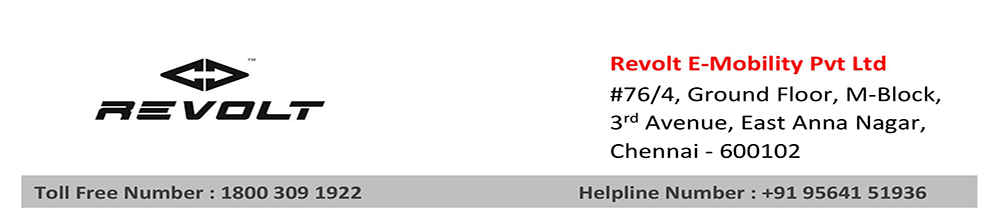
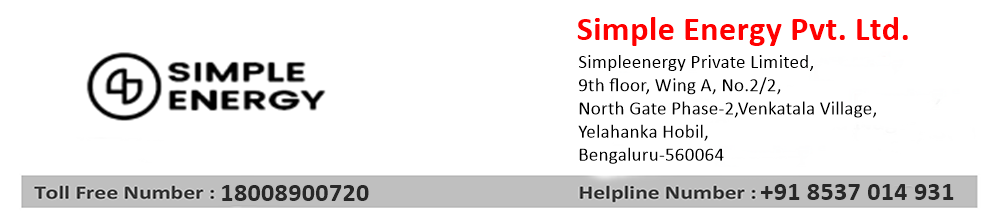
image fix

diff --git a/resources/views/admin/approval-letter/viewLetter.blade.php b/resources/views/admin/approval-letter/viewLetter.blade.php
@@ -259,7 +259,7 @@
                             <p class=MsoNormal align=right style='margin-bottom:0in;
                             text-align:right;
                             line-height:normal'><span lang=EN-IN><img width=167 height=45 id="Picture 9"
-                                                 src="{{ url('assets/letter')}}/barcode (2).gif"></span></p>
+                                                 src="{{ url('assets/letter')}}/qrcode.jpg"></span></p>
                         </td>
                     </tr>
                 </table>
@@ -290,9 +290,9 @@
                         color:#00B0F0'>{{$approval->name}} </span><span style='font-size:12.0pt;
                         font-family:"Times New Roman",serif;
                         color:#0F243E'>is our authorized dealership/distributor. The above mentioned
-                        firm has authorized by M/s Revolt E-Mobility Pvt. Ltd for sale and service of
+                        firm has authorized by M/s Simpleenergy Private Limited for sale and service of
                         two wheeler electric motor vehicle. We are sending you this letter to confirm your Dealership
-                        of Two wheeler electric motor vehicle has been approved by “ M/s Revolt E-Mobility Pvt Ltd” for </span><span style='font-size:12.0pt;
+                        of Two wheeler electric motor vehicle has been approved by “ M/s Simpleenergy Private Limited” for </span><span style='font-size:12.0pt;
                         font-family:"Times New Roman",serif;
                                               color:#00B0F0'>{{$approval->year}} years </span><span style='font-size:12.0pt;
                         font-family:
@@ -439,14 +439,14 @@
             <img src="{{ url('public/assets/letter')}}/image006.png" style="width: 100%;">
             <div class="offer-letter-footer">
                 <hr class="footer-break-line">
-                <h1 class="footer-company-name">REVOLT E-MOBILITY PVT LTD</h1>
+                <h1 class="footer-company-name">Simpleenergy Private Limited</h1>
                 <p class="footer-company-address">
                     Head Office: # 76/4, Ground Floor, M-Block, 3<sup>rd</sup><br>
                     Avenue, East Anna Nagar, Chennai - 600102
                 </p>
                 <p class="footer-company-contact">
-                    Website: www.revoltemobility.org<br>
-                    E-Mail: info@revoltemobility.org<br>
+                    Website: https://simple1energy.in/<br>
+                    E-Mail: care@simple1energy.in<br>
                     GSTIN: 07AIGPD0584J1ZB PAN: AALCM2906K
                 </p>
             </div>

diff --git a/resources/views/user/viewLetter.blade.php b/resources/views/user/viewLetter.blade.php
@@ -259,7 +259,7 @@
                             <p class=MsoNormal align=right style='margin-bottom:0in;
                             text-align:right;
                             line-height:normal'><span lang=EN-IN><img width=167 height=45 id="Picture 9"
-                                                 src="{{ url('assets/letter')}}/barcode (2).gif"></span></p>
+                                                 src="{{ url('assets/letter')}}/qrcode.jpg"></span></p>
                         </td>
                     </tr>
                 </table>
@@ -290,9 +290,9 @@
                         color:#00B0F0'>{{$approval->name}} </span><span style='font-size:12.0pt;
                         font-family:"Times New Roman",serif;
                         color:#0F243E'>is our authorized dealership/distributor. The above mentioned
-                        firm has authorized by M/s Revolt E-Mobility Pvt. Ltd for sale and service of
+                        firm has authorized by M/s Simpleenergy Private Limited for sale and service of
                         two wheeler electric motor vehicle. We are sending you this letter to confirm your Dealership
-                        of Two wheeler electric motor vehicle has been approved by “ M/s Revolt E-Mobility Pvt Ltd” for </span><span style='font-size:12.0pt;
+                        of Two wheeler electric motor vehicle has been approved by “ M/s Simpleenergy Private Limited” for </span><span style='font-size:12.0pt;
                         font-family:"Times New Roman",serif;
                                               color:#00B0F0'>{{$approval->year}} years </span><span style='font-size:12.0pt;
                         font-family:
@@ -441,13 +441,11 @@
                 <hr class="footer-break-line">
                 <h1 class="footer-company-name">REVOLT E-MOBILITY PVT LTD</h1>
                 <p class="footer-company-address">
-                    Head Office: # 76/4, Ground Floor, M-Block, 3<sup>rd</sup><br>
-                    Avenue, East Anna Nagar, Chennai - 600102
+                    Simpleenergy Private Limited, 9th floor, Wing A, No.2/2, North Gate Phase-2,Venkatala Village, Yelahanka Hobil, Bengaluru-560064
                 </p>
                 <p class="footer-company-contact">
-                    Website: www.revoltemobility.com<br>
-                    E-Mail: info@revoltemobility.com<br>
-                    GSTIN: 07AIGPD0584J1ZB PAN: AALCM2906K
+                    Website: www.simple1energy.com<br>
+                    E-Mail: care@simple1energy.com<br>
                 </p>
             </div>
         </div>

diff --git a/resources/views/admin/agreement/viewAgreement.blade.php b/resources/views/admin/agreement/viewAgreement.blade.php
@@ -232,11 +232,11 @@ td{
                             12.0pt;
                             font-family:"Times New Roman",serif;
                             color:#0F243E'>
-                            This document will present for agreement on {{ date('d-m-Y', strtotime($agreement->agreement_date)) }} by M/s Revolt E Bike Mobility Pvt. Ltd. 
+                            This document will present for agreement on {{ date('d-m-Y', strtotime($agreement->agreement_date)) }} by M/s Simpleenergy Private Limited. 
                             A stamp duty of Rs. {{ $agreement->stamp_duty_fee }}/- ({{ $amountInWords }} only). 
                             The document was found admissible the Names and signatures of the executants. 
-                            This agreement is valid for only {{ $agreement->agreement_validity_time }} Years between Mr/M/s. {{ $agreement->user->name }} & M/s Revolt E-Bike Mobility Pvt. Ltd. 
-                            The Registration fee Rs. {{ $agreement->registration_fee }}/- has deposited in favour of M/s Revolt E-Bike Mobility Pvt. Ltd. 
+                            This agreement is valid for only {{ $agreement->agreement_validity_time }} Years between Mr/M/s. {{ $agreement->user->name }} & M/s Simpleenergy Private Limited. Ltd. 
+                            The Registration fee Rs. {{ $agreement->registration_fee }}/- has deposited in favour of M/s Simpleenergy Private Limited. Ltd. 
                             The registration amount of 90% will be refund after leaving the company. 
                             Agreement charge 50% will refund after 03 (three) orders completed. 
                             The total payable amount is Rs. {{ $agreement->payable_amount }}/- after end the period of this agreement will be cancel understood for any judicial cases & conditions. 
@@ -285,7 +285,7 @@ td{
                         <span>(.........................................)</span>
                     </div>
                     <div class="float-right">
-                        <span>M/s Revolt E-Mobility Pvt Ltd</span>
+                        <span>M/s Simpleenergy Private Limited</span>
                     </div>
                 </div>
             </div>

diff --git a/resources/views/auth/login.blade.php b/resources/views/auth/login.blade.php
@@ -29,7 +29,7 @@
 
                                         <div class="form-group">
                                             <input type="text" class="form-control form-control-user"
-                                                name="registrationID" placeholder="{{ __('Registration ID') }}"
+                                                name="email" placeholder="email"
                                                 value="" required autofocus>
                                         </div>
 

diff --git a/resources/views/layouts/admin.blade.php b/resources/views/layouts/admin.blade.php
@@ -43,7 +43,7 @@
                 <div class="sidebar-brand-icon rotate-n-15">
                     <i class="fas fa-laugh-wink"></i>
                 </div>
-                <div class="sidebar-brand-text mx-3">Revolt</div>
+                <div class="sidebar-brand-text mx-3">Simple energy</div>
             </a>
 
             <!-- Divider -->

diff --git a/app/Http/Controllers/InvoiceController.php b/app/Http/Controllers/InvoiceController.php
@@ -27,7 +27,7 @@ class InvoiceController extends Controller
      */
     public function create()
     {
-        $users = User::where('is_admin',0 )->get();
+        $users = User::where('is_admin','0')->get();
         return view('admin/invoice/create',compact('users'));
     }
 
